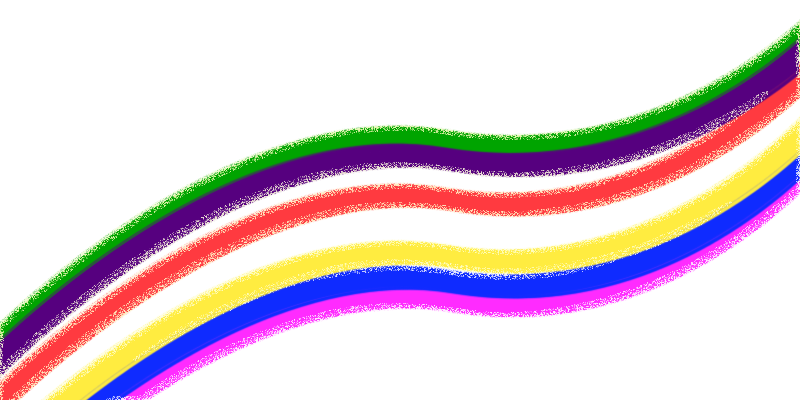
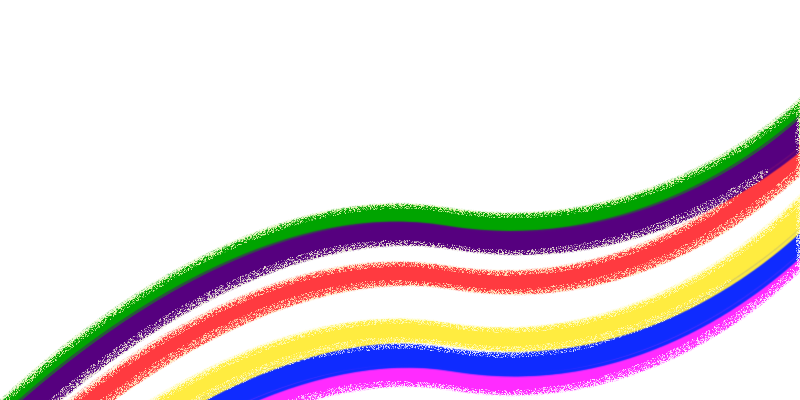
Fixes different sizes for pages

diff --git a/src/app/home/home.component.css b/src/app/home/home.component.css
@@ -1,12 +1,13 @@
 .main-container {
   display: flex;
-  background: #fff url("/assets/img/bg.png") no-repeat bottom right;
-  background-size: contain;
+  flex-direction: row;
+  min-height: 100%;
 }
 
 .picture-container {
   height: 100%;
-  width: 400px;
+  width: 30%;
+  min-width: 320px;
   display: flex;
   align-items: center;
   justify-content: center;
@@ -57,7 +58,9 @@
 
 .container {
   flex: 1;
-  margin-left: 400px;
+  background: #fff url("/assets/img/bg.png") no-repeat fixed bottom right;
+  background-size: 70%;
+  min-height: 100%;
 }
 
 .project-list {
@@ -65,11 +68,14 @@
   display: flex;
   flex-direction: row;
   flex-wrap: wrap;
+  justify-content: space-evenly;
+  padding: 0 1em;
 }
 
 .project {
-  width: 200px;
-  height: 200px;
+  min-width: 200px;
+  width: 20%;
+  height: auto;
   margin: 1em;
   border-radius: 1em;
   line-height: 200px;
@@ -86,7 +92,9 @@
 }
 
 .project img {
-  max-width: 150px;
+  min-width: 150px;
+  width: 80%;
+  height: auto;
   display: inline;
   vertical-align: middle;
 }
@@ -114,3 +122,22 @@
 .project.mostra { background-color: #131313; }
 .project.smart-rep { background-color: #1c4587; }
 .project.virada { background-color: #ff559e; }
+
+@media all and (max-width: 1079px) {
+  .project-list {
+    justify-content: center;
+  }
+
+  .project {
+    flex: 1;
+    min-width: 150px;
+    margin: 0;
+    border-radius: 0;
+    box-shadow: none;
+  }
+
+  .project img {
+    min-width: 150px;
+    min-width: auto;
+  }
+}

diff --git a/src/styles.css b/src/styles.css
@@ -4,53 +4,12 @@ html, body {
   height: 100%;
 }
 
-.elevate, .rounded-elevate {
-  box-sizing: border-box;
-  border: solid transparent 0;
-  transition: box-shadow linear 0.2s, border linear 0.1s;
-  cursor: pointer;
+.separator {
+  display: flex;
+  width: 28%;
+  height: 100%;
+  min-width: 320px;
 }
-
-.rounded-elevate {
-  border-radius: 50%;
-}
-
-.elevate:hover, .rounded-elevate:hover {
-  box-shadow: inset 0 0 12px #000;
-}
-
-.elevate:active, .rounded-elevate:active {
-}
-
-/* Ripple effect */
-.elevate {
-  position: relative;
-  overflow: hidden;
-}
-
-.elevate:after {
-   content: "";
-   background: rgba(255,255,255,0.3);
-   display: block;
-   position: absolute;
-   border-radius: 50%;
-   padding-top: 240%;
-   padding-left: 240%;
-   margin-top: -120%;
-   margin-left: -120%;
-   opacity: 0;
-   transition: all 1s;
-}
-
-.elevate:active:after {
-   padding-top: 0;
-   padding-left: 0;
-   margin-top: 0;
-   margin-left: 0;
-   opacity: 1;
-   transition: 0s;
-}
-/* End of ripple effect */
 
 /* Used for project HTML injection */
 .symbol * {
@@ -70,6 +29,10 @@ html, body {
 
 .description h2 {
   color: #789789;
+}
+
+.description * {
+  max-width: 100%;
 }
 
 .project-icon {

diff --git a/src/app/project/project.component.css b/src/app/project/project.component.css
@@ -1,5 +1,5 @@
 :host {
-  display: block;
+  display: flex;
   min-height: 100%;
   background-color: transparent;
 }
@@ -20,7 +20,8 @@
 }
 
 .general-info {
-  width: 400px;
+  width: 30%;
+  min-width: 320px;
   height: 100%;
   position: fixed;
   display: flex;
@@ -72,7 +73,6 @@
 .content-container {
   padding: 6em 2em 0 2em;
   font-size: 1.2em;
-  margin-left: 400px;
   min-height: 100%;
   position: relative;
   box-sizing: border-box;
@@ -105,8 +105,8 @@ h1, h2, h3, p, section {
   text-align: left;
 }
 
-@media all and (max-width: 880px) {
-  .content {
-    display: block;
+@media all and (max-width: 1080px) {
+  .content-container {
+    padding: 0;
   }
 }

diff --git a/src/app/project/project.component.html b/src/app/project/project.component.html
@@ -9,6 +9,7 @@
   <div [innerHTML]="project.symbol" class="symbol"></div>
   <h1 class="title">{{project.name}}</h1>
 </div>
+<div class="separator"></div>
 <div class="content-container">
   <div class="content">
     <section class="description" [innerHTML]="bypassSanitizer(project.desc)"></section>

diff --git a/src/app/home/home.component.html b/src/app/home/home.component.html
@@ -12,6 +12,7 @@
     </div>
   </div>
   <div class="footer">2018</div>
+  <div class="separator"></div>
   <div class="container">
     <ul class="project-list">
       <li class="project vivros"><a href="/projects/vivros"><img src="assets/img/vivros.png" /></a></li>
